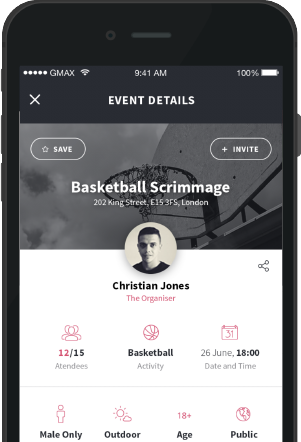
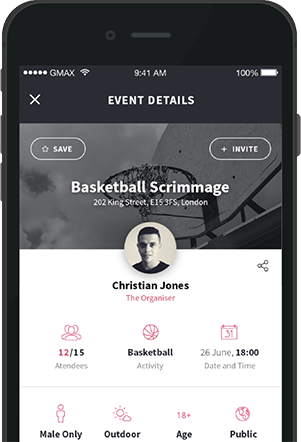
Updated walkthrough images and enabled no4

diff --git a/src/windows/walkthrough.js b/src/windows/walkthrough.js
@@ -32,7 +32,7 @@ export default class Walkthrough extends React.Component {
           <WalkthroughPage image={StyleSheet.images.screengrab1} text={_('walkthrough1')} />
           <WalkthroughPage image={StyleSheet.images.screengrab2} text={_('walkthrough2')} />
           <WalkthroughPage image={StyleSheet.images.screengrab3} text={_('walkthrough3')} />
-          <WalkthroughPage image={StyleSheet.images.screengrab3} text={_('walkthrough4')} />
+          <WalkthroughPage image={StyleSheet.images.screengrab4} text={_('walkthrough4')} />
         </Swiper>
         <View style={StyleSheet.walkthrough.buttonBar}>
           <Button

diff --git a/src/styles/resources/images.js b/src/styles/resources/images.js
@@ -6,5 +6,6 @@ export default {
   "screengrab1": require('./images/screengrab-1.png'),
   "screengrab2": require('./images/screengrab-2.png'),
   "screengrab3": require('./images/screengrab-3.png'),
+  "screengrab4": require('./images/screengrab-4.png'),
   "walkthrough": require('./images/walkthrough.png'),
 }
